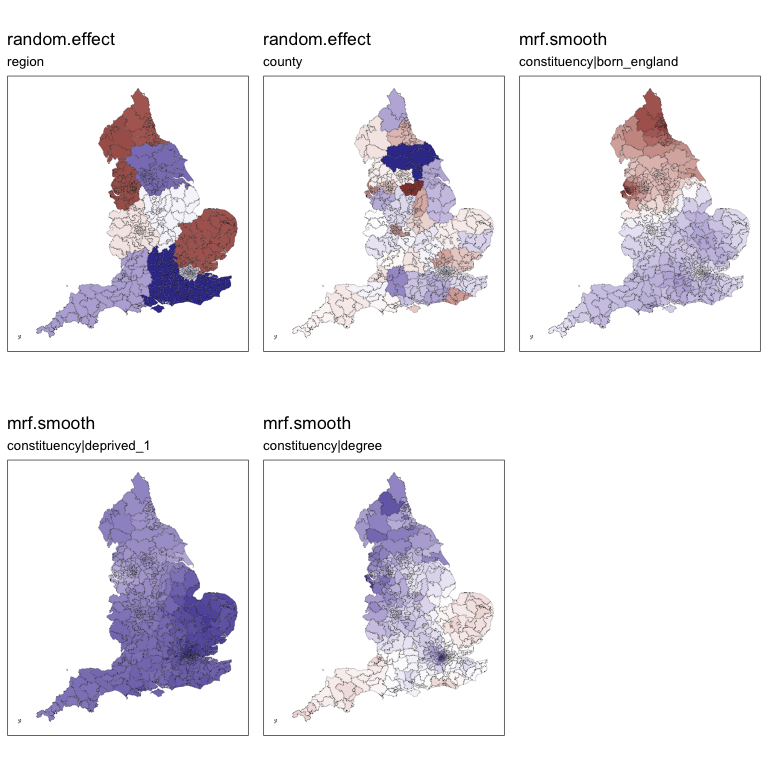
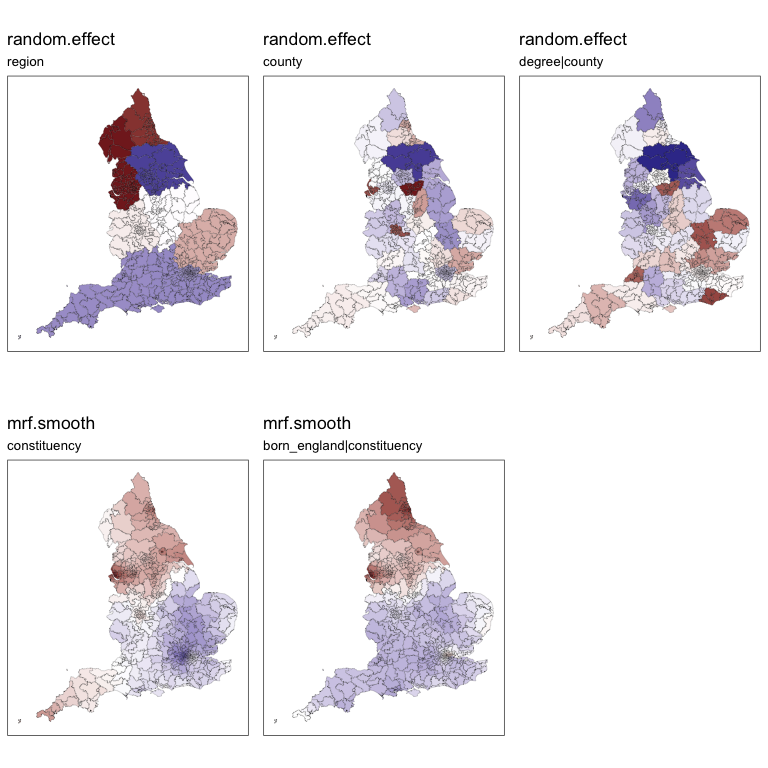
more illustrative readme with labels improved

diff --git a/README.md b/README.md
@@ -445,13 +445,13 @@ components:
 
 model <- gam(con_17 ~ 
                born_england + 
-               deprived_1 + 
+               deprived_1 +
                degree + 
                s(region, bs="re") +
                s(county, bs="re") +
-               s(constituency, by=born_england, bs='mrf', xt=list(nb=nb_england),k=50) +
-               s(constituency, by=deprived_1, bs='mrf', xt=list(nb=nb_england),k=50) +
-               s(constituency, by=degree, bs='mrf', xt=list(nb=nb_england),k=50),
+               s(county, degree, bs="re") +
+               s(constituency, bs='mrf', xt=list(nb=nb_england),k=50) +
+               s(constituency, by=born_england, bs='mrf', xt=list(nb=nb_england),k=50),
              data=df_england, method="REML")
 ```
 
@@ -476,48 +476,41 @@ head(output[,1:10])
 #> Dimension:     XY
 #> Bounding box:  xmin: 368282 ymin: 101579.6 xmax: 532401.3 ymax: 393553.9
 #> Projected CRS: OSGB36 / British National Grid
-#>   random.effect.region random.effect.county
-#> 1         6.073839e-04             1.706711
-#> 2        -5.774813e-05            -2.703870
-#> 3        -4.414490e-04            -1.505832
-#> 4         2.417885e-05             1.090575
-#> 5         6.073839e-04             2.668064
-#> 6         2.417885e-05            -2.382387
-#>   mrf.smooth.constituency|born_england mrf.smooth.constituency|deprived_1
-#> 1                            11.629070                           28.52421
-#> 2                             1.872756                           19.69007
-#> 3                           -12.234466                           11.23745
-#> 4                            -2.637204                           17.71635
-#> 5                             7.127869                           25.82921
-#> 6                            -2.938126                           18.32714
-#>   mrf.smooth.constituency|degree se.random.effect.region
-#> 1                       1.067502              0.03766500
-#> 2                       6.371619              0.03766566
-#> 3                      19.993120              0.03766621
-#> 4                       4.072850              0.03766501
-#> 5                      -4.036583              0.03766500
-#> 6                       2.438712              0.03766501
-#>   se.random.effect.county se.mrf.smooth.constituency|born_england
-#> 1                2.508186                                3.901682
-#> 2                2.365326                                3.417439
-#> 3                2.358090                                4.065510
-#> 4                2.264675                                3.712115
-#> 5                2.513013                                5.573187
-#> 6                2.596432                                4.025844
-#>   se.mrf.smooth.constituency|deprived_1 se.mrf.smooth.constituency|degree
-#> 1                              11.64201                          2.738666
-#> 2                              11.78601                          1.792209
-#> 3                              10.57810                          4.511394
-#> 4                              11.17196                          1.572283
-#> 5                              11.84416                          3.871403
-#> 6                              11.61155                          1.121780
-#>                         geometry
-#> 1 MULTIPOLYGON (((485408.1 15...
-#> 2 MULTIPOLYGON (((406519.5 30...
-#> 3 MULTIPOLYGON (((379104.1 39...
-#> 4 MULTIPOLYGON (((444868.5 35...
-#> 5 MULTIPOLYGON (((506643.3 12...
-#> 6 MULTIPOLYGON (((449576.1 36...
+#>   random.effect.region random.effect.county random.effect.degree|county
+#> 1         9.106699e-05         0.0022038150                  0.12544536
+#> 2        -1.276271e-05        -0.0040218262                  0.01806311
+#> 3        -1.915533e-04         0.0004535066                  0.03735045
+#> 4         1.403770e-06         0.0002235744                  0.20328894
+#> 5         9.106699e-05         0.0011533002                  0.10133193
+#> 6         1.403770e-06        -0.0020776751                 -0.12805643
+#>   mrf.smooth.constituency mrf.smooth.born_england|constituency
+#> 1                8.191301                          0.044261369
+#> 2               -1.914969                          0.018425793
+#> 3              -15.020994                         -0.053140703
+#> 4               -5.521289                         -0.007640393
+#> 5                2.766880                          0.017852827
+#> 6               -5.843950                         -0.009806297
+#>   se.random.effect.region se.random.effect.county
+#> 1              0.02519786               0.1029829
+#> 2              0.02519795               0.1029725
+#> 3              0.02519802               0.1029684
+#> 4              0.02519771               0.1029772
+#> 5              0.02519786               0.1029870
+#> 6              0.02519771               0.1029781
+#>   se.random.effect.degree|county se.mrf.smooth.constituency
+#> 1                      0.1755541                   3.967701
+#> 2                      0.1725884                   2.982417
+#> 3                      0.1553289                   4.194030
+#> 4                      0.1803089                   3.253374
+#> 5                      0.1969387                   5.028727
+#> 6                      0.1872917                   3.550224
+#>   se.mrf.smooth.born_england|constituency                       geometry
+#> 1                              0.03873321 MULTIPOLYGON (((485408.1 15...
+#> 2                              0.03028813 MULTIPOLYGON (((406519.5 30...
+#> 3                              0.04114809 MULTIPOLYGON (((379104.1 39...
+#> 4                              0.03199243 MULTIPOLYGON (((444868.5 35...
+#> 5                              0.05088886 MULTIPOLYGON (((506643.3 12...
+#> 6                              0.03458959 MULTIPOLYGON (((449576.1 36...
 ```
 
 #### quickmap()
